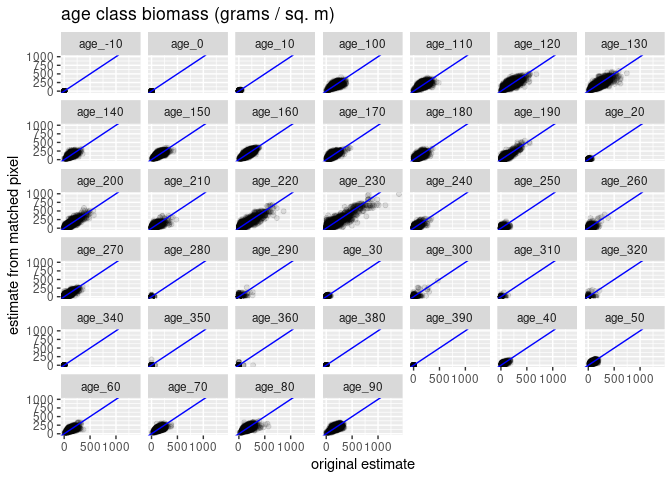
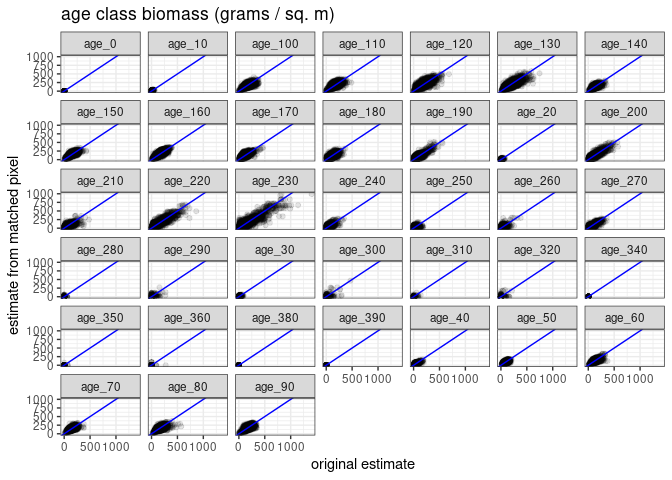
add canopy cover section to readme

diff --git a/README.md b/README.md
@@ -78,6 +78,8 @@ library(backcaster)
 library(dplyr)
 library(ggplot2)
 library(tibble)
+
+theme_set(theme_bw())
 ```
 
 There are 543 Landis summary files in the full dataset. The process
@@ -116,7 +118,10 @@ methods of importing the files that result in a single large
 `data.frame`-like object will also work.
 
 ``` r
-landis_raw <- do.call(rbind, lapply(training_landis_files, data.table::fread))
+landis_raw <- do.call(
+  rbind,
+  lapply(training_landis_files, data.table::fread)
+)
 ```
 
 ``` scroll-200
@@ -140,7 +145,7 @@ lookup <- process_landis(landis_raw)
 
 ``` scroll-200
 #> Rows: 2,459
-#> Columns: 74
+#> Columns: 73
 #> $ map_code                     <chr> "10_10_1", "10_10_10", "10_10_100", "10_…
 #> $ aboveground_biomass_g_per_m2 <dbl> 3249.2450, 3037.4800, 428.1404, 333.0496…
 #> $ AbieConc                     <dbl> 355.435, 87.819, 41.522, 0.000, 146.537,…
@@ -212,7 +217,6 @@ lookup <- process_landis(landis_raw)
 #> $ age_320                      <dbl> 0, 0, 0, 0, 0, 0, 0, 0, 0, 0, 0, 0, 0, 0…
 #> $ age_340                      <dbl> 0, 0, 0, 0, 0, 0, 0, 0, 0, 0, 0, 0, 0, 0…
 #> $ age_360                      <dbl> 0, 0, 0, 0, 0, 0, 0, 0, 0, 0, 0, 0, 0, 0…
-#> $ `age_-10`                    <dbl> 0, 0, 0, 0, 0, 0, 0, 0, 0, 0, 0, 0, 0, 0…
 #> $ age_380                      <dbl> 0, 0, 0, 0, 0, 0, 0, 0, 0, 0, 0, 0, 0, 0…
 #> $ age_390                      <dbl> 0, 0, 0, 0, 0, 0, 0, 0, 0, 0, 0, 0, 0, 0…
 ```
@@ -230,7 +234,7 @@ new_data <- process_landis(
 
 ``` scroll-200
 #> Rows: 2,500
-#> Columns: 74
+#> Columns: 73
 #> $ map_code                     <chr> "10_11_1", "10_11_10", "10_11_100", "10_…
 #> $ aboveground_biomass_g_per_m2 <dbl> 3091.838, 2773.577, 2964.190, 2113.569, …
 #> $ AbieConc                     <dbl> 73.933, 436.066, 1178.398, 611.216, 462.…
@@ -301,7 +305,6 @@ new_data <- process_landis(
 #> $ age_310                      <dbl> 0.000, 0.000, 0.000, 0.000, 0.000, 0.000…
 #> $ age_320                      <dbl> 0.000, 0.000, 0.000, 0.000, 0.000, 0.000…
 #> $ age_350                      <dbl> 0.000, 0.000, 0.000, 0.000, 0.000, 0.000…
-#> $ `age_-10`                    <dbl> 0, 0, 0, 0, 0, 0, 0, 0, 0, 0, 0, 0, 0, 0…
 #> $ age_360                      <dbl> 0, 0, 0, 0, 0, 0, 0, 0, 0, 0, 0, 0, 0, 0…
 #> $ age_380                      <dbl> 0, 0, 0, 0, 0, 0, 0, 0, 0, 0, 0, 0, 0, 0…
 #> $ age_390                      <dbl> 0, 0, 0, 0, 0, 0, 0, 0, 0, 0, 0, 0, 0, 0…
@@ -329,15 +332,39 @@ and some diagnostic tables (`backcasted$comp_stats`,
 species (`common`) and diameter per pixel.
 
 ``` scroll-200
-#> Rows: 597,654
+#> Rows: 596,345
 #> Columns: 6
-#> $ pix_ctr_wkt <chr> "POINT(-1768035 -455625)", "POINT(-1771275 -455355)", "PO…
-#> $ map_code    <chr> "10_11_1889", "10_11_2003", "10_11_1889", "10_11_2003", "…
+#> $ pix_ctr_wkt <chr> "POINT(-1771275 -455355)", "POINT(-1771275 -455355)", "PO…
+#> $ map_code    <chr> "10_11_2003", "10_11_2003", "10_11_2003", "10_11_2003", "…
 #> $ pix_area_ha <dbl> 0.81, 0.81, 0.81, 0.81, 0.81, 0.81, 0.81, 0.81, 0.81, 0.8…
-#> $ common      <chr> "California black oak", "California black oak", "ponderos…
-#> $ diameter    <int> 2, 2, 5, 5, 5, 5, 6, 6, 7, 7, 8, 8, 9, 9, 10, 10, 11, 11,…
-#> $ nTrees      <dbl> 57.891, 57.891, 5.572, 5.572, 14.138, 14.138, 10.092, 10.…
+#> $ common      <chr> "California black oak", "ponderosa pine", "California bla…
+#> $ diameter    <int> 2, 5, 5, 6, 7, 8, 9, 10, 11, 12, 13, 14, 15, 16, 24, 26, …
+#> $ nTrees      <dbl> 57.891, 5.572, 14.138, 10.092, 11.434, 1.531, 13.562, 10.…
 ```
+
+#### Canopy Cover
+
+There is a function called `estimate_canopy_cover` that will pull canopy
+cover values from local FIA data based on density of overstory trees.
+When a treelist dataframe is passed to this function it will return a
+dataframe with canopy cover expressed as a proportion (0 - 1) for each
+pixel.
+
+``` r
+cc <- estimate_canopy_cover(backcasted$trees)
+```
+
+``` scroll-200
+#> Rows: 2,500
+#> Columns: 5
+#> $ pix_ctr_wkt <chr> "POINT(-1767045 -454545)", "POINT(-1767045 -454635)", "PO…
+#> $ map_code    <chr> "10_11_2500", "10_11_2450", "10_11_2400", "10_11_2350", "…
+#> $ bapa        <dbl> 156.6060, 201.2228, 171.8924, 140.3732, 163.4754, 159.594…
+#> $ tpa         <dbl> 170.0565, 245.9419, 175.7670, 149.6056, 188.9714, 213.316…
+#> $ cc          <dbl> 0.2803961, 0.2738877, 0.2529169, 0.2878380, 0.3361558, 0.…
+```
+
+<img src="man/figures/README-canopy_cover_plot-1.png" width="80%" />
 
 ### Diagnostics
 
@@ -353,7 +380,7 @@ share of biomass for each pixel.
 
 |            attribute             | original mean | matched mean | RMSE | RMSE % |
 | :------------------------------: | :-----------: | :----------: | :--: | :----: |
-| aboveground\_biomass\_g\_per\_m2 |     2852      |     2815     | 118  |   4    |
+| aboveground\_biomass\_g\_per\_m2 |     2852      |     2815     | 116  |   4    |
 
 #### Biomass by species
 
@@ -361,82 +388,81 @@ share of biomass for each pixel.
 
 |     species     | original mean | matched mean |  RMSE  | RMSE % |
 | :-------------: | :-----------: | :----------: | :----: | :----: |
-|    PseuMenz     |     1138      |     1155     | 96.41  |   8    |
-|    AbieConc     |      524      |    513.8     | 99.15  |   19   |
-|    CaloDecu     |     453.4     |    418.1     | 119.5  |   26   |
-|    PinuPond     |     362.5     |    366.2     | 91.68  |   25   |
-|    PinuLamb     |     152.8     |    154.5     | 71.87  |   47   |
-|    QuerKell     |     98.18     |    94.97     | 70.83  |   72   |
-|    QuerChry     |     39.03     |    32.61     | 55.85  |  143   |
-|    AcerMacr     |     17.25     |    14.37     | 44.21  |  256   |
-|    QuerWisl     |     8.485     |    7.964     | 28.48  |  336   |
-|    AbieMagn     |     7.563     |    5.443     | 28.51  |  377   |
-|    ArbuMenz     |     7.465     |    7.852     | 29.94  |  401   |
-|    PinuJeff     |     6.857     |     6.79     | 29.27  |  427   |
-|    LithDens     |     6.416     |    8.193     | 29.86  |  465   |
-|    AlnuRhom     |     5.756     |    5.649     | 23.42  |  407   |
-|  NOFX\_R\_SEED  |     5.039     |    4.832     | 7.905  |  157   |
-|    TsugMert     |     4.166     |    5.045     | 26.64  |  639   |
-|    PinuSabi     |     3.656     |     3.34     | 19.66  |  538   |
-|    CornNutt     |     2.504     |     2.39     | 6.496  |  259   |
-|   FX\_R\_SEED   |     1.543     |    1.665     | 3.534  |  229   |
-|    PinuMono     |     1.493     |    0.4449    | 18.13  |  1214  |
-|    QuerDoug     |     1.346     |    1.011     | 9.706  |  721   |
-|    JuniOcci     |     1.308     |    1.215     | 12.24  |  935   |
-|    AescCali     |     1.019     |    0.7987    | 6.276  |  616   |
-|    PinuMont     |    0.8548     |    0.6855    | 6.257  |  732   |
-|    PopuTrem     |    0.6074     |    0.935     | 8.561  |  1409  |
-| NOFX\_NOR\_SEED |    0.3187     |    0.4055    | 2.538  |  796   |
-|    PinuCont     |    0.2669     |    0.2289    |  2.28  |  854   |
-|    QuerGarr     |    0.09528    |    0.1882    |  2.2   |  2309  |
-|    TaxuBrev     |    0.07983    |    0.1213    | 1.312  |  1643  |
-|    TorrCali     |    0.06021    |   0.05136    | 0.5631 |  935   |
-|    UmbeCali     |    0.0512     |   0.05278    | 0.9563 |  1868  |
-|    PinuAlbi     |    0.02423    |   0.005668   | 0.6377 |  2631  |
-|    PinuAtte     |    0.00294    |   0.06244    | 1.322  | 44965  |
+|    PseuMenz     |     1138      |     1152     | 95.73  |   8    |
+|    AbieConc     |      524      |    516.5     | 98.11  |   19   |
+|    CaloDecu     |     453.4     |     421      | 117.6  |   26   |
+|    PinuPond     |     362.5     |    367.5     | 90.88  |   25   |
+|    PinuLamb     |     152.8     |    154.8     | 71.33  |   47   |
+|    QuerKell     |     98.18     |    93.13     | 71.53  |   73   |
+|    QuerChry     |     39.03     |    34.23     | 55.83  |  143   |
+|    AcerMacr     |     17.25     |    13.98     | 41.22  |  239   |
+|    QuerWisl     |     8.485     |     7.83     | 27.82  |  328   |
+|    AbieMagn     |     7.563     |    5.405     | 27.82  |  368   |
+|    ArbuMenz     |     7.465     |    6.497     | 27.37  |  367   |
+|    PinuJeff     |     6.857     |     6.09     | 26.07  |  380   |
+|    LithDens     |     6.416     |    8.038     | 29.26  |  456   |
+|    AlnuRhom     |     5.756     |    4.566     | 21.98  |  382   |
+|  NOFX\_R\_SEED  |     5.039     |     4.68     | 7.767  |  154   |
+|    TsugMert     |     4.166     |    4.593     | 25.54  |  613   |
+|    PinuSabi     |     3.656     |    3.292     | 20.27  |  555   |
+|    CornNutt     |     2.504     |    2.274     | 5.843  |  233   |
+|   FX\_R\_SEED   |     1.543     |     1.61     | 3.481  |  226   |
+|    PinuMono     |     1.493     |    0.6447    | 18.33  |  1228  |
+|    QuerDoug     |     1.346     |    0.9316    | 9.797  |  728   |
+|    JuniOcci     |     1.308     |    1.334     | 12.32  |  942   |
+|    AescCali     |     1.019     |    0.7516    |  6.14  |  603   |
+|    PinuMont     |    0.8548     |    0.6991    | 5.959  |  697   |
+|    PopuTrem     |    0.6074     |    0.8838    | 8.406  |  1384  |
+| NOFX\_NOR\_SEED |    0.3187     |    0.4214    | 2.514  |  789   |
+|    PinuCont     |    0.2669     |    0.2069    | 2.266  |  849   |
+|    QuerGarr     |    0.09528    |    0.2158    | 2.537  |  2662  |
+|    TaxuBrev     |    0.07983    |    0.123     | 1.387  |  1737  |
+|    TorrCali     |    0.06021    |   0.05258    | 0.5521 |  917   |
+|    UmbeCali     |    0.0512     |   0.05174    | 0.976  |  1906  |
+|    PinuAlbi     |    0.02423    |   0.000626   | 0.6206 |  2561  |
+|    PinuAtte     |    0.00294    |   0.09314    | 1.577  | 53638  |
 
 #### Biomass by age class
 
 <img src="man/figures/README-age_biomass_plot-1.png" width="80%" />
 
-| age class | original mean | matched mean |   RMSE   | RMSE % |
-| :-------: | :-----------: | :----------: | :------: | :----: |
-| \-10 - 0  |   7.16e-05    |   5.28e-05   | 0.003589 |  5013  |
-|  0 - 10   |   0.006694    |   0.007927   | 0.09043  |  1351  |
-|  10 - 20  |      3.4      |    3.813     |  4.985   |  147   |
-|  20 - 30  |     3.871     |    4.108     |  7.345   |  190   |
-|  30 - 40  |     11.94     |    12.09     |  8.211   |   69   |
-|  40 - 50  |     46.69     |    47.93     |  17.08   |   37   |
-|  50 - 60  |     82.95     |    81.07     |  23.58   |   28   |
-|  60 - 70  |     136.6     |    131.6     |  37.72   |   28   |
-|  70 - 80  |     156.8     |    153.9     |  37.87   |   24   |
-|  80 - 90  |     164.3     |    157.4     |  47.86   |   29   |
-| 90 - 100  |     174.5     |    173.2     |  42.14   |   24   |
-| 100 - 110 |     182.8     |    175.2     |  50.73   |   28   |
-| 110 - 120 |     179.6     |    182.2     |  52.92   |   29   |
-| 120 - 130 |     202.3     |    209.1     |  66.83   |   33   |
-| 130 - 140 |      185      |    179.2     |   63.1   |   34   |
-| 140 - 150 |     133.7     |    132.5     |   38.3   |   29   |
-| 150 - 160 |     155.3     |    156.5     |  39.38   |   25   |
-| 160 - 170 |     180.2     |     183      |   44.3   |   25   |
-| 170 - 180 |     123.3     |    127.9     |  42.59   |   35   |
-| 180 - 190 |     100.6     |    96.55     |  43.98   |   44   |
-| 190 - 200 |     89.26     |    87.95     |  39.86   |   45   |
-| 200 - 210 |     101.4     |    102.9     |  43.32   |   43   |
-| 210 - 220 |     63.84     |    58.56     |  39.88   |   62   |
-| 220 - 230 |     105.1     |     103      |  53.41   |   51   |
-| 230 - 240 |     127.2     |     120      |  68.93   |   54   |
-| 240 - 250 |     35.08     |    36.44     |  33.47   |   95   |
-| 250 - 260 |     20.04     |    17.89     |  28.89   |  144   |
-| 260 - 270 |     27.75     |    27.79     |  30.66   |  110   |
-| 270 - 280 |     48.4      |    45.99     |  32.38   |   67   |
-| 280 - 290 |    0.2187     |    0.1635    |  3.797   |  1736  |
-| 290 - 300 |     2.635     |    2.196     |    16    |  607   |
-| 300 - 310 |     4.736     |    3.616     |  17.02   |  359   |
-| 310 - 320 |    0.6709     |    0.4008    |  6.564   |  978   |
-| 320 - 330 |     1.141     |    0.8592    |  11.96   |  1048  |
-| 340 - 350 |   0.009248    |   0.005617   | 0.08744  |  946   |
-| 350 - 360 |    0.1074     |    0.1081    |  4.337   |  4039  |
-| 360 - 370 |    0.2148     |    0.1824    |  7.476   |  3480  |
-| 380 - 390 |   0.0003472   |  0.0005916   | 0.02575  |  7415  |
-| 390 - 400 |   0.0003472   |  0.0003472   | 0.01736  |  5000  |
+| age class | original mean | matched mean |  RMSE   | RMSE % |
+| :-------: | :-----------: | :----------: | :-----: | :----: |
+|  0 - 10   |   0.006766    |   0.008978   | 0.09616 |  1421  |
+|  10 - 20  |      3.4      |    3.753     |  4.862  |  143   |
+|  20 - 30  |     3.871     |      4       |  7.229  |  187   |
+|  30 - 40  |     11.94     |    12.01     |  8.323  |   70   |
+|  40 - 50  |     46.69     |    47.47     |  17.14  |   37   |
+|  50 - 60  |     82.95     |    80.92     |  23.48  |   28   |
+|  60 - 70  |     136.6     |    131.4     |  37.24  |   27   |
+|  70 - 80  |     156.8     |    153.7     |  38.23  |   24   |
+|  80 - 90  |     164.3     |    157.3     |  48.01  |   29   |
+| 90 - 100  |     174.5     |    174.3     |  43.05  |   25   |
+| 100 - 110 |     182.8     |    175.2     |  50.06  |   27   |
+| 110 - 120 |     179.6     |     183      |  54.06  |   30   |
+| 120 - 130 |     202.3     |    209.3     |  68.49  |   34   |
+| 130 - 140 |      185      |    177.8     |  64.15  |   35   |
+| 140 - 150 |     133.7     |    132.2     |  37.48  |   28   |
+| 150 - 160 |     155.3     |    156.6     |  39.02  |   25   |
+| 160 - 170 |     180.2     |     184      |  44.06  |   24   |
+| 170 - 180 |     123.3     |    128.4     |  42.58  |   35   |
+| 180 - 190 |     100.6     |    96.61     |  43.69  |   43   |
+| 190 - 200 |     89.26     |    87.73     |  39.74  |   45   |
+| 200 - 210 |     101.4     |    101.6     |  42.61  |   42   |
+| 210 - 220 |     63.84     |    57.91     |  40.16  |   63   |
+| 220 - 230 |     105.1     |    103.4     |  53.45  |   51   |
+| 230 - 240 |     127.2     |    119.1     |  70.81  |   56   |
+| 240 - 250 |     35.08     |    36.59     |  33.17  |   95   |
+| 250 - 260 |     20.04     |    18.42     |  29.52  |  147   |
+| 260 - 270 |     27.75     |    27.83     |  30.76  |  111   |
+| 270 - 280 |     48.4      |     46.8     |  32.76  |   68   |
+| 280 - 290 |    0.2187     |    0.2445    |  4.367  |  1996  |
+| 290 - 300 |     2.635     |    1.955     |  15.9   |  603   |
+| 300 - 310 |     4.736     |    3.461     |  18.06  |  381   |
+| 310 - 320 |    0.6709     |    0.4029    |  6.288  |  937   |
+| 320 - 330 |     1.141     |    0.983     |  12.83  |  1125  |
+| 340 - 350 |   0.009248    |   0.003974   | 0.08517 |  921   |
+| 350 - 360 |    0.1074     |   0.04005    |  2.728  |  2541  |
+| 360 - 370 |    0.2148     |    0.1459    |  7.25   |  3375  |
+| 380 - 390 |   0.0003472   |  0.0005916   | 0.02575 |  7415  |
+| 390 - 400 |   0.0003472   |      0       | 0.01228 |  3536  |
